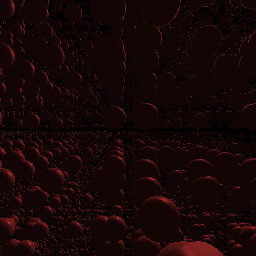
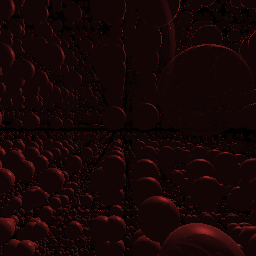
docs(s-rta-0927 source-defects-fix): fix round -- 5 findings verified (MUST fixed; SHOULD 1 DEBT_FILED; SHOULD 4 half refuted), RED/GREEN verbatim, live t = 10 box 85.4% -> 10.8% dark, ctest 752/752, crystal_cavern shots re-shot

diff --git a/.harmony/.reports/s-rta-0927/source-defects-evidence/fixround-explore-rig.cpp b/.harmony/.reports/s-rta-0927/source-defects-evidence/fixround-explore-rig.cpp
@@ -1,0 +1,55 @@
+#include "/Users/boriskarpman/projects/RealTimeAudio/.claude/worktrees/rta0927-w10/tests/test_source_defaults_gl.cpp"
+#include <cstdio>
+#include <cstdlib>
+static std::string slurp(const char* p) { std::ifstream in(p); std::stringstream ss; ss << in.rdbuf(); return ss.str(); }
+TEST_CASE("explore", "[explore]")
+{
+    Rig rig; REQUIRE_GL(rig);
+    const std::string frag = slurp(std::getenv("CAV_FRAG"));
+    const int w = std::atoi(std::getenv("CAV_W")), h = std::atoi(std::getenv("CAV_H"));
+    const float t0 = std::atof(std::getenv("CAV_T0")), t1 = std::atof(std::getenv("CAV_T1")), dt = std::atof(std::getenv("CAV_DT"));
+    const char* out = std::getenv("CAV_OUT");
+    auto ps = registryParams("crystal_cavern");
+    int i = 0;
+    for (float t = t0; t <= t1 + 1e-4f; t = t0 + dt * float(++i))
+    {
+        const Pixels px = rig.render(frag.c_str(), w, h, t, ps);
+        char fn[1024]; std::snprintf(fn, sizeof fn, "%s/f_%05d_%.3f.ppm", out, i, t);
+        FILE* f = std::fopen(fn, "wb"); std::fprintf(f, "P6\n%d %d\n255\n", w, h);
+        for (int y = h - 1; y >= 0; --y) for (int x = 0; x < w; ++x) std::fwrite(&px[size_t((y * w + x) * 4)], 1, 3, f);
+        std::fclose(f);
+    }
+}
+TEST_CASE("gputime", "[perf]")
+{
+    Rig rig; REQUIRE_GL(rig);
+    const int w = 1920, h = 1080;
+    for (const char* v : { "mandelbulb", "julia_set_3d" })
+    {
+        std::string vs(v); float ax = -1; if (auto at = vs.find('@'); at != std::string::npos) { ax = std::stof(vs.substr(at + 1)); vs = vs.substr(0, at); }
+        auto ps = registryParams(vs == "head" || vs == "fix" || vs == "base" ? std::string("crystal_cavern") : (vs.rfind("newton", 0) == 0 ? std::string("newton_3d") : vs));
+        if (ax >= 0) ps = with(ps, "u_src_rotation_x", ax);
+        const std::string frag = slurp((std::string(std::getenv("CAV_DIR")) + "/" + vs + ".frag").c_str());
+        const GLuint prog = rig.program(frag.c_str());
+        GLuint tex = 0, fbo = 0, q = 0;
+        glGenTextures(1, &tex); glBindTexture(GL_TEXTURE_2D, tex);
+        glTexImage2D(GL_TEXTURE_2D, 0, GL_RGBA8, w, h, 0, GL_RGBA, GL_UNSIGNED_BYTE, nullptr);
+        glGenFramebuffers(1, &fbo); glBindFramebuffer(GL_FRAMEBUFFER, fbo);
+        glFramebufferTexture2D(GL_FRAMEBUFFER, GL_COLOR_ATTACHMENT0, GL_TEXTURE_2D, tex, 0);
+        glViewport(0, 0, w, h); glUseProgram(prog); glBindVertexArray(rig.vao);
+        glUniform2f(glGetUniformLocation(prog, "u_resolution"), float(w), float(h));
+        for (const auto& p : ps) if (auto l = glGetUniformLocation(prog, p.uniform.c_str()); l >= 0) glUniform1f(l, p.value);
+        glGenQueries(1, &q);
+        std::vector<double> ms;
+        for (int i = 0; i < 240; ++i)
+        {
+            glUniform1f(glGetUniformLocation(prog, "u_time"), 0.125f * float(i));
+            glBeginQuery(GL_TIME_ELAPSED, q); glDrawArrays(GL_TRIANGLES, 0, 6); glEndQuery(GL_TIME_ELAPSED);
+            GLuint64 ns = 0; glGetQueryObjectui64v(q, GL_QUERY_RESULT, &ns); ms.push_back(double(ns) / 1e6);
+        }
+        std::sort(ms.begin(), ms.end());
+        double sum = 0; for (double x : ms) sum += x;
+        std::printf("%s: GPU ms/frame 1920x1080 over t=0..30 (240 frames): mean %.3f median %.3f p95 %.3f max %.3f\n", v, sum / ms.size(), ms[ms.size() / 2], ms[size_t(ms.size() * 0.95)], ms.back());
+        glDeleteQueries(1, &q); glDeleteFramebuffers(1, &fbo); glDeleteTextures(1, &tex); glDeleteProgram(prog);
+    }
+}

diff --git a/.harmony/.reports/s-rta-0927/source-defects-evidence/fixround-cav.py b/.harmony/.reports/s-rta-0927/source-defects-evidence/fixround-cav.py
@@ -1,0 +1,31 @@
+"""Fix-round live rows: crystal_cavern at its explicit registered defaults (from THIS app's /api/sources), decoded PNGs,
+plus the grazed-crystal box dark fraction at the two pinned 1920x1080 frames (same boxes as the T2 case). argv[1] = OUT."""
+import sys, os, json
+from lc import *
+OUT = sys.argv[1]; P = OUT + "/png"; os.makedirs(P, exist_ok=True)
+srcs = sources(); log("sources:", len(srcs), " health:", get("/api/health"))
+post("/api/reset", {})
+d = defaults(srcs, "crystal_cavern"); log("crystal_cavern defaults:", d)
+post("/api/load_source", {"source_type": "crystal_cavern", "params": d})
+BOX = {10.0: (1560, 440, 1900, 800), 24.0: (1300, 340, 1600, 620)}
+rows = []
+for (w, h) in ((256, 256), (1920, 1080)):
+    for t in (1.0, 5.0, 10.0, 24.0):
+        name = f"crystal_cavern_{w}x{h}_t{t:g}.png"
+        im = render(f"{P}/{name}", t=t, w=w, h=h); mt = metrics(im)
+        extra = ""
+        if w == 1920 and t in BOX:
+            x0, y0, x1, y1 = BOX[t]; m = im[y0:y1, x0:x1].max(axis=2)
+            mt["box_dark"] = float((m < 40).mean()); extra = f" grazed-crystal box dark={mt['box_dark']*100:.1f}%"
+        log(f"ROW crystal_cavern {w}x{h} t={t:<5g} {fmt(mt)}{extra}")
+        rows.append({"w": w, "h": h, "t": t, **mt, "png": name})
+log("\n== 20 s sweep 96x54 every 0.25 s (visible + not flat)")
+bad = 0
+for i in range(81):
+    t = 0.25 * i; im = render(f"{P}/sweep.png", t=t, w=96, h=54); mt = metrics(im)
+    b = not visible(mt); fl = (not b) and mt["sd"] < 4.0
+    bad += b or fl
+    if b or fl: log(f"  BAD t={t} {fmt(mt)}")
+log(f"SWEEP 81 frames: {bad} black-or-flat")
+json.dump(rows, open(OUT + "/cav_rows.json", "w"), indent=1)
+log("cav done")

diff --git a/.harmony/.reports/s-rta-0927/source-defects.md b/.harmony/.reports/s-rta-0927/source-defects.md
@@ -151,3 +151,96 @@ DONE_WITH_CONCERNS
 
 ### NEXT ACTION
 Harmony: behavioral gate (the pictures via 8080 + the inspector shot) and reviewer on 47da170..HEAD; bring the 7 Boris checks; hand the two render_frame findings to the harness lane.
+
+---
+
+# Fix round (source-defects-fix, 2026-09-27 21:00-21:36)
+
+STATUS: DONE_WITH_CONCERNS
+RESULT: I checked all five review findings. Two are fully confirmed, and I fixed the MUST: crystal_cavern no longer draws a flat dark cut disc where the camera grazes a crystal (9ba79b3). The other confirmed finding, the lint's "READ" check being only textual, is now written into the lint and SHADER_VERIFICATION.md as DEBT_FILED (a433f45). SHOULD 3 is half confirmed: striped_torus's camera uniform is live but has no knob. Its spectrum_landscape half is wrong: that source's knob is wired. SHOULD 2 (the look) and SHOULD 4 (dropped connections) are confirmed; they need a decision from Boris, not code. Concerns: the fix costs +1.9 ms GPU per 1080p frame. Also, a close crystal now fades to see-through, which is a new look Boris should see (check 5, replaced below).
+FACTS:
+- Fix-round commits on `lane/source-defects-0927`: 9ba79b3 (crystal_cavern near fade + T2 case), a433f45 (DEBT_FILED note); this report + evidence = the next commit. Source: `git log 4654438..HEAD`.
+- The previous 0.08 near-clip was active for 85.99% of the flight, not "only while grazing". The numpy camera path over 0..120 s at the defaults gives camera DE < 0.08 for 85.99% of the time, < 0 for 1.45%, and DE 0.0117 at t = 10. Source: `source-defects-evidence/fixround-camera-distance.txt`.
+- New T2 case "crystal_cavern draws a grazed crystal and never a cut-open dark disc". On the previous shader it fails: "grazed-crystal box: 85.3946% dark" (t = 10) / "90.356% dark" (t = 24), `test cases: 1 | 0 passed | 1 failed`, `assertions: 12 | 10 passed | 2 failed`. On the fix: 10.8096% / 7.89167%, `All tests passed (12 assertions in 1 test case)`. Source: `fixround-RED-graze-prev-shader.txt`, `fixround-GREEN-graze.txt`.
+- Whole T2 on HEAD: `All tests passed (1540 assertions in 8 test cases)`. The existing 20 s sweep: `96x54 sweep 0..20 s step 0.05: 0 black, 0 flat frames`. T1 lint: `All tests passed (1389 assertions in 1 test case)`. Full ctest serial: `100% tests passed, 0 tests failed out of 752`. Source: `fixround-T2-final.txt`, `fixround-T1-lint.txt`, `fixround-ctest-final.summary`.
+- Live on 8080 (explicit registered defaults, decoded PNGs), grazed-crystal box dark at 1920x1080, previous lane app -> fix-round app: t = 10: 85.4% -> 10.8%; t = 24: 28.6% (INVALID, see NUANCE) -> 7.9%. Live-vs-offscreen PSNR: inf for prev t = 10 and for fix t = 10 / 24. Source: `fixround-live.log`.
+- GPU time at 1920x1080 over t = 0..30 (240 frames, GL timer queries, private CGL context, no clang and no Audio-DNA running, load 2.93 -> 2.00): previous shader median 3.257 / 3.259 ms, fix 5.177 / 5.173 ms (two passes each). Source: `fixround-gpu-perf.txt`.
+METHOD: I checked each finding against the source and the pixels before changing anything. I ported the camera path and caveDE to numpy to see how often the clip was active. I built a scratch offscreen explorer (the T2 rig plus a shader-from-file loop; `fixround-explore-rig.cpp`) and compared 4 candidates over 0..30 s and one inside-a-crystal episode: the previous shader, no clip, "exit the crystal only when inside", and three near-fade widths. I wrote the T2 case, got RED on the previous shader, edited the shader, then got GREEN. I built the app and froze copies of the previous and the fix-round apps. I ran one live batch per app under `/tmp/audiodna-live.lock` as `source-defects-fix` (launched with `open -g ... --args --test-mode`, quit via osascript), then re-shot the evidence.
+CONFIDENCE+VERIFY: high for the MUST. The GREEN numbers are identical live and offscreen (PSNR inf), and the fix block's code equals the prototype I measured (comments aside, checked by script). VERIFY: `build-lane/tests/test_source_defaults_gl "crystal_cavern draws a grazed crystal and never a cut-open dark disc" -s`; `ctest --test-dir build-lane -j1`; look at `source-defects-shots/fixround_pair_crystal_cavern_1920x1080_t10.png`.
+UNKNOWNS/NOT-DONE: Tier-1 pytest was not run (same reason as the main round: the harness lane owns it). Existing probes were not re-run: no probe or test other than T2 names crystal_cavern (grep of scripts/ and tests/), and the fix changes only that shader block. The SHOULDs got no code: 2 needs a decision, 3 needs a follow-up, 4 is informational.
+NUANCE: The live 1080p capture of the PREVIOUS app at t = 24 came back at another time phase (a different view: PSNR 16.5 vs the offscreen t = 24; shown in `fixround_prev_live_WRONG_TIME_PHASE_crystal_cavern_1920x1080_t24.png`). This is the render_frame capture-timing issue already under ISSUES. So its 28.6% is not a t = 24 measurement. That pair uses the deterministic offscreen render of the previous shader instead, labelled as such. RED at t = 24 rests on the offscreen gate (90.4%); live RED rests on t = 10 (85.4%, byte-identical to offscreen).
+HANDOFF-NEEDS: Harmony: behavioral gate + reviewer on 4654438..HEAD. Boris: replaced check 5 and new check 8 (below). Follow-ups: the striped_torus camera knob, and the newton_3d cost (ISSUES).
+
+INBOX-RECHECK: none
+
+## Findings: verdicts
+
+| # | Sev | Finding | Verdict | Action |
+|---|---|---|---|---|
+| 1 | SHOULD | lint "READ" is textual; `mix(energy, energy, u_src_smoothing)` passes | VERIFIED. `EmbeddedShaders.h:10582` is in `sourceSpectrumLandscape` (block starts 10561); spectrum_landscape registers Smoothing (`SourceRegistry.cpp:987`); `isRead()` (`tests/test_shader_param_lint.cpp`) accepts any non-declaration use | DEBT_FILED in the lint header + `tests/visual/SHADER_VERIFICATION.md` (a433f45). No code change: pre-existing and outside A2 |
+| 2 | MUST | crystal_cavern near-clip renders a flat dark disc in place of a crystal (t = 10, 1080p) | VERIFIED, and worse than stated. The clip was on 86% of the flight (not only while grazing), so every crystal nearer than 0.08 vanished and any crystal the 0.08 sphere cut showed its inside at ambient level. Offscreen and live at t = 10: 85.4% of the crystal's box dark | FIXED 9ba79b3 (below) |
+| 3 | SHOULD | crystal_cavern reads as tiled / boxy | VERIFIED as a look. Same sphere field, same camera; the fix does not change the composition | Product decision: existing Boris check 5 alternative stands; no code |
+| 4 | SHOULD | striped_torus `u_src_camera` is live but unwired; "check sourceSpectrumLandscape which has the same" | striped_torus VERIFIED (`EmbeddedShaders.h:7943` declared, read at 7960 `camAngle = u_src_camera`; no `u_src_camera` in its registry block, `SourceRegistry.cpp:640-648`; pre-change registry had none either). spectrum_landscape REFUTED: it registers "Camera Angle" -> `u_src_camera` (`SourceRegistry.cpp:984`), read at `EmbeddedShaders.h:10586` | Filed as follow-up (below); not implemented (new control = scope) |
+| 5 | SHOULD | a saved connection on one of the 78 removed params is dropped on load | VERIFIED: `compload::reconcileSourceParams` (`src/core/CompositionLoad.h:100-140`) rebuilds `sourceParams` from the registry list, so a removed param's `SourceParam` (with its connection) is discarded. No picture changes (the param never reached the shader) | Informational; no load-notice pattern exists to hook. Kept under RISKS |
+
+## The MUST fix (9ba79b3): near fade instead of near-clip
+- `src/render/EmbeddedShaders.h` `sourceCrystalCavern` only. Every ray now marches from the camera. A crystal hit at distance `d` is drawn with weight `smoothstep(0, 0.08, d)`, composited front to back, and the ray continues through the crystal to what lies behind it. It stops once less than 1% of the ray still shows. Every hit 0.08 or more away is drawn exactly as before (weight exactly 1). A crystal the camera brushes past turns see-through as it nears, with no hard edge. A camera inside a crystal sees through it: no flat frame, no cut face.
+- Why not the other candidates (`fixround-variants-contact.png`, `fixround-variant-flatness.txt`):
+  - No clip at all flashes the whole frame one flat colour whenever the camera is inside a crystal: the frames at 6.3, 9.5, 10.1, 19.9, 20.0 and 23.8 s were 100% flat blocks. `fixround-inside-episode-head-repnoclip-exit.png`, middle column.
+  - "Step out only when inside" is cheaper (median about 4.0 ms), but at normal flight a shadowed crystal then fills up to 92% of the frame at ambient level (t = 20.1). That is the same "flat dark" complaint.
+- The frame composition away from the camera is unchanged. Offscreen 0..120 s (2401 frames, 96x54): fix 0 black / 0 flat, lit median 80.0% (previous 79.2%).
+- Cost (INFERRED cause: rays now also march the first 0.08 and pass through near crystals): GPU median 3.26 -> 5.18 ms per 1920x1080 frame. For scale, same rig: mandelbulb 2.1, julia_set_3d 1.0, newton_3d 56.1 (ISSUES).
+
+### Tests (verbatim)
+| Test | Previous shader (4654438) | Fix round (HEAD) |
+|---|---|---|
+| T2 "crystal_cavern draws a grazed crystal and never a cut-open dark disc" | `test cases:  1 \|  0 passed \| 1 failed` / `assertions: 12 \| 10 passed \| 2 failed` (85.3946% / 90.356% dark) | `All tests passed (12 assertions in 1 test case)` (10.8096% / 7.89167%) |
+| T2 whole file | -- | `All tests passed (1540 assertions in 8 test cases)` |
+| T1 lint (after the comment edit) | -- | `All tests passed (1389 assertions in 1 test case)` |
+| ctest serial | -- | `100% tests passed, 0 tests failed out of 752` |
+
+### Live rows (8080, explicit defaults; previous lane app -> fix-round app; `fixround-live.log`)
+| size | t | previous | fix round |
+|---|---|---|---|
+| 256 | 1 / 5 / 10 / 24 | lit 71.1 / 87.2 / 83.4 / 53.0% | lit 74.9 / 86.8 / 87.6 / 56.0% |
+| 1920x1080 | 1 / 5 | lit 73.2 / 87.3% | lit 75.3 / 87.0% |
+| 1920x1080 | 10 | lit 81.2%, grazed-crystal box 85.4% dark | lit 83.7%, box 10.8% dark |
+| 1920x1080 | 24 | (wrong time phase, see NUANCE) | lit 69.6%, box 7.9% dark |
+| 96x54 sweep 0..20 s every 0.25 s | -- | 0 black-or-flat of 81 | 0 black-or-flat of 81 |
+
+### Re-shot evidence (`source-defects-shots/`)
+- `after_crystal_cavern_{256x256,1920x1080}_t{1,5,10}.png` and their `pair_*.png`: re-shot on the fix-round build. BEFORE is still the main app, black from t = 2.5.
+- NEW `fixround_pair_crystal_cavern_1920x1080_t10.png`: previous lane build vs fix round, both live, with the grazed crystal's box drawn. The flat disc becomes a lit crystal with its highlight.
+- NEW `fixround_pair_crystal_cavern_1920x1080_t24.png`: the previous shader rendered OFFSCREEN, labelled, vs the fix round live.
+- NEW raw captures: `fixround_prev_*`, `fixround_fix_*`, and `fixround_prev_live_WRONG_TIME_PHASE_*` (kept for the record).
+
+## BORIS CHECKS (fix round; the default already ships)
+5 (REPLACES check 5 above). Crystal Cavern is an endless fly-through. A crystal the camera brushes past now fades to see-through as it gets close, instead of showing a dark cut-open disc. Very close crystals look like glass ghosts for a moment. Alternatives: keep one cave and drift the camera inside it, or push the camera away from crystals so nothing ever gets that close. Both are a new look, which is your call.
+8 (NEW). Crystal Cavern now costs about 5.2 ms of GPU per 1080p frame instead of 3.3 ms. That is the price of drawing close crystals properly. It is fine on its own. If you stack it under heavy effects, a cheaper version is possible: close crystals just vanish, with no fade.
+
+## ISSUES / FOUND-NOT-FIXED (fix round)
+- FOLLOW-UP (review SHOULD 4): striped_torus's shader has a working `u_src_camera` (0 = side vortex, 1 = top-down hole) that no knob sets, so it always renders 0. Exposing it means adding a "Camera" param with default 0.0, which leaves today's picture unchanged. Deferred as a new control.
+- DEBT_FILED (review SHOULD 1): spectrum_landscape Smoothing is a dead knob that the lint cannot see: `mix(energy, energy, u_src_smoothing)`. Fixing it means implementing temporal smoothing, or removing the knob.
+- NEW (measured, pre-existing, not this lane's regression): newton_3d costs about 56 ms of GPU per 1920x1080 frame at the lane defaults, roughly 18 fps. The pre-change shader at its pre-change defaults costs 81.7 ms median (p95 147). Source: `fixround-gpu-perf.txt`. It deserves its own perf pass.
+- render_frame at 1920x1080 returned another time phase once more: the previous app at t = 24, PSNR 16.5 vs offscreen. This is the harness finding already listed above.
+- Process: every `git commit` in this worktree prints `[graphify hook] launching background rebuild`. That is a repo hook I did not add, and it compiles nothing (no clang during the perf run).
+
+## RISKS (fix round)
+- A user-visible look change: close crystals are now translucent (Boris check 5).
+- +1.9 ms GPU per 1080p frame for this one source (Boris check 8).
+- The T2 grazed-crystal case pins two frames and two boxes. A deliberate change to the camera or the cave will need new frames or boxes. The case says so in its comment.
+
+## METRICS (fix round)
+2 commits + this report. 1 new T2 case. Offscreen: about 5,000 explorer renders (7 variants), 3 GPU timing runs. Live: 2 app runs (prev, fix), each holding the lock for about 1 min. ctest serial x2 (752/752 both).
+
+## PACKET QUALITY (fix round)
+- Clarity: CLEAR.
+- Missing context: finding 4's spectrum_landscape claim was wrong (that knob is wired). Finding 2 understated the clip's reach (86% of the flight, not only grazing).
+- Unused context: none.
+- Self-brief files: the main-round scratch rigs (cavern_fix.py numpy port, T2 rig, lc.py / live.sh) were all reused.
+
+### STATUS
+DONE_WITH_CONCERNS
+
+### NEXT ACTION
+Harmony: behavioral gate + reviewer on 4654438..HEAD (look at `fixround_pair_crystal_cavern_1920x1080_t10.png`). Take Boris checks 5 (replaced) and 8 to Boris. File the striped_torus camera knob and the newton_3d cost as follow-ups.
